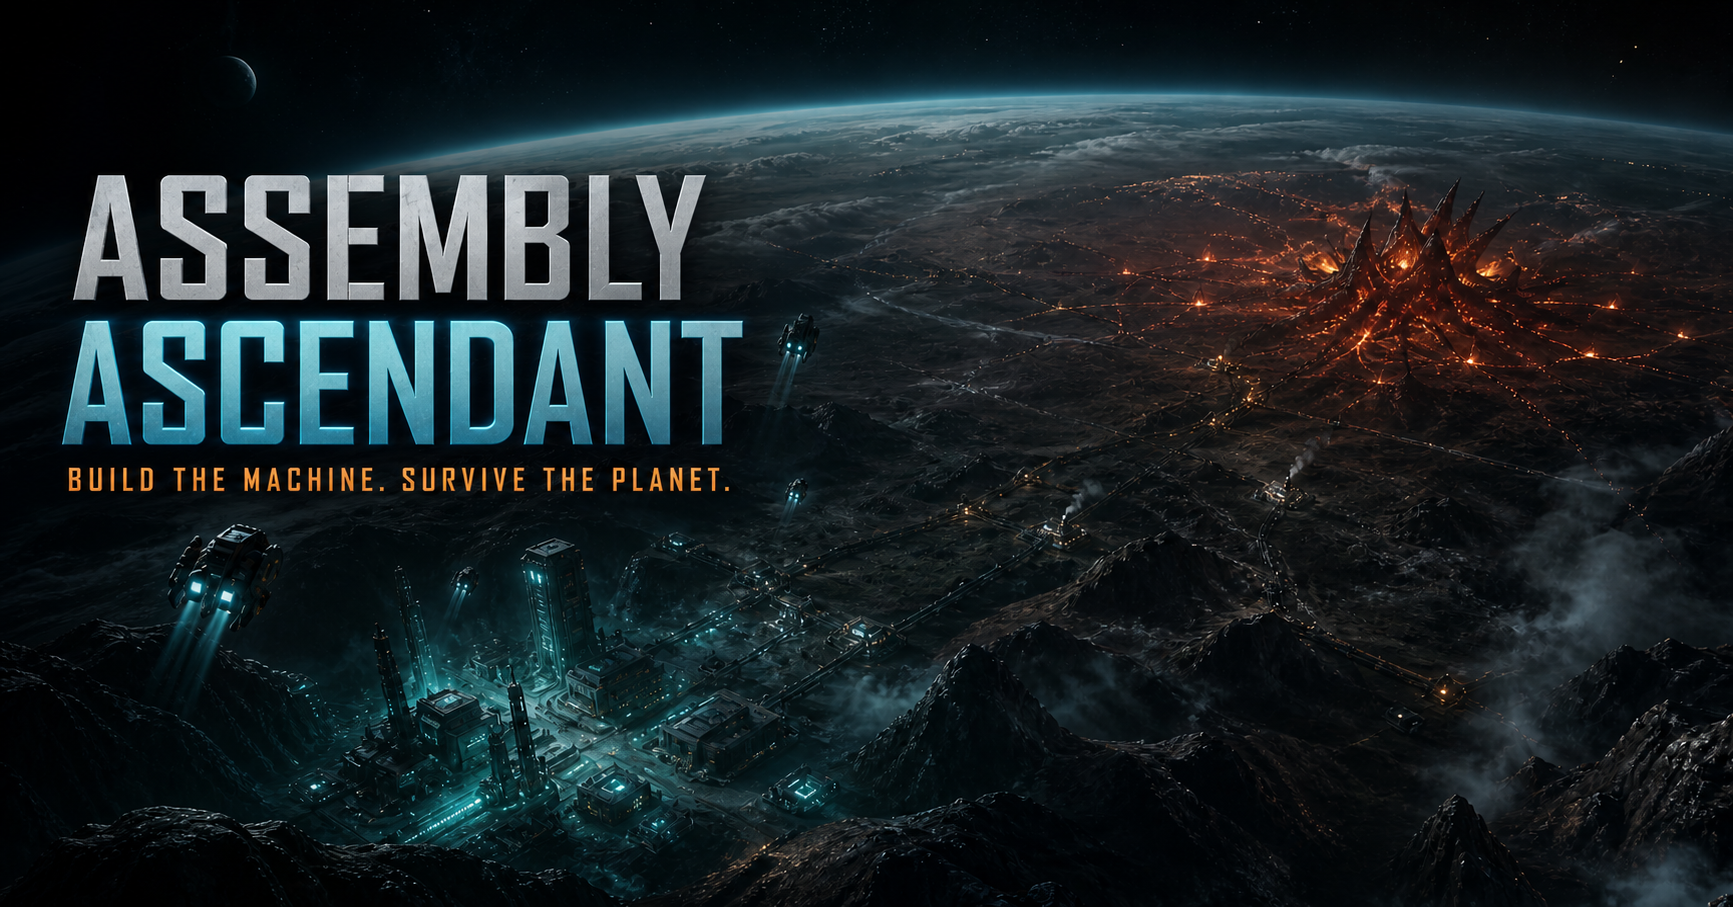
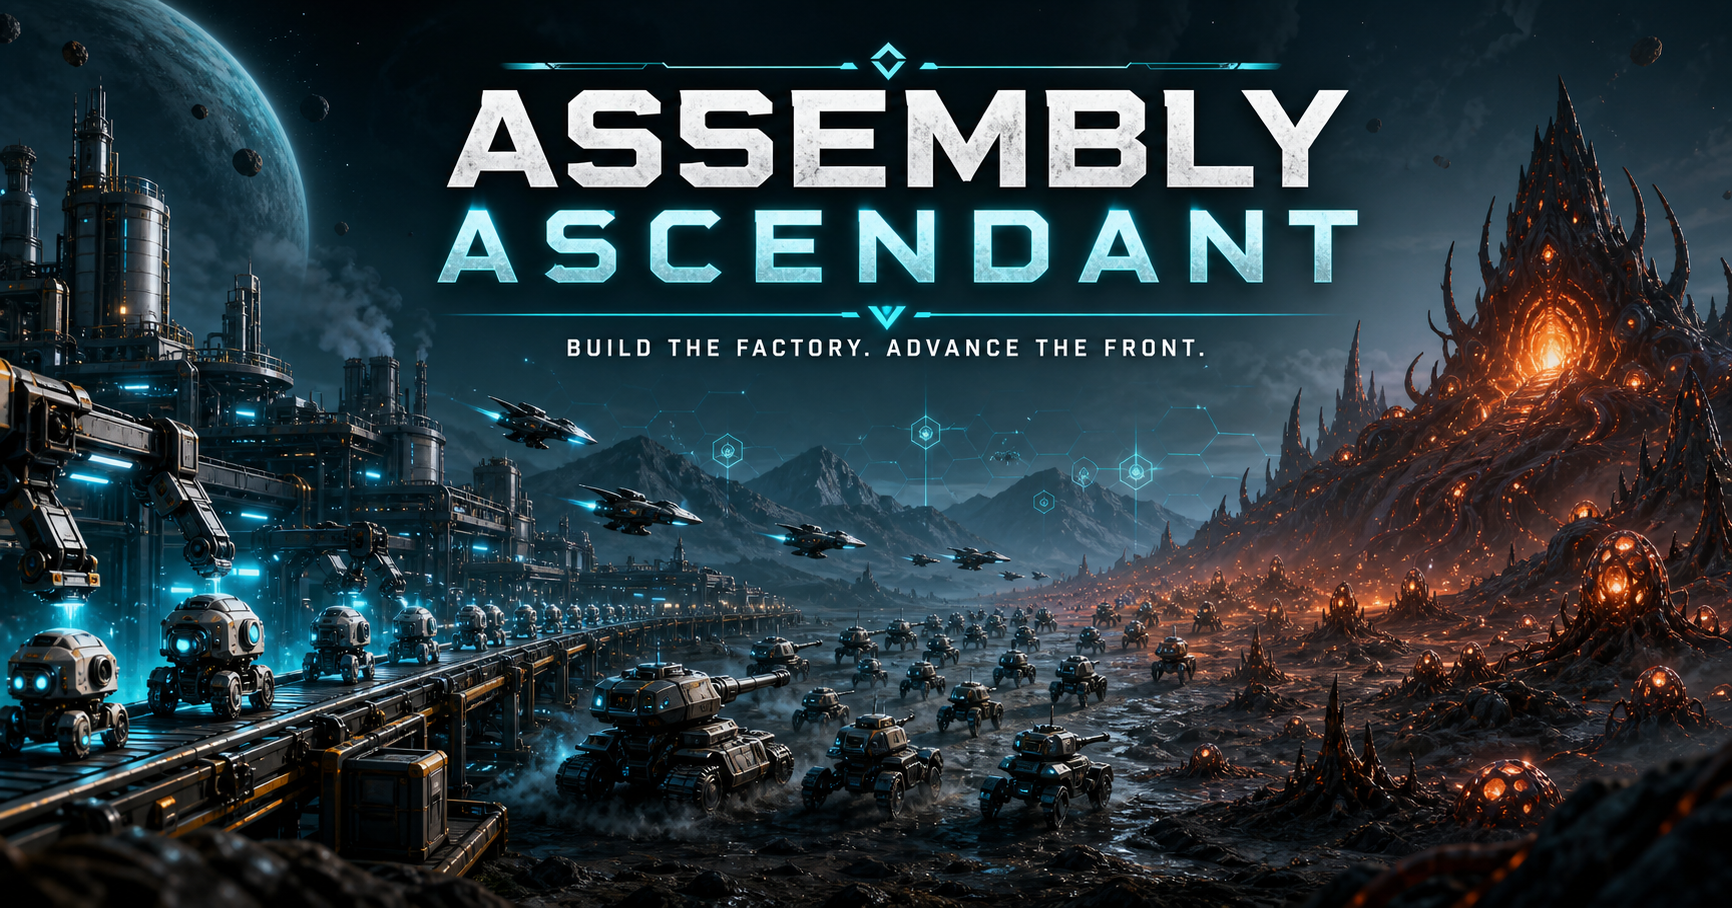
chore: prepare v0.2 release metadata

diff --git a/app/layout.tsx b/app/layout.tsx
@@ -4,16 +4,16 @@ import "./globals.css";
 export const metadata: Metadata = {
   metadataBase: new URL("https://assembly-ascendant.netlify.app"),
   title: "Assembly Ascendant",
-  description: "An incremental factory and planetary-defense browser game.",
+  description: "An idle factory game where automated armies conquer alien territory while you are away.",
   openGraph: {
     title: "Assembly Ascendant",
-    description: "Build the machine. Survive the planet.",
+    description: "Build the factory. Advance the front. Return to a stronger war machine.",
     images: [{ url: "/og.png", width: 1732, height: 907, alt: "Assembly Ascendant orbital colony and alien nest" }],
   },
   twitter: {
     card: "summary_large_image",
     title: "Assembly Ascendant",
-    description: "Build the machine. Survive the planet.",
+    description: "Build the factory. Advance the front. Return to a stronger war machine.",
     images: ["/og.png"],
   },
   icons: {

diff --git a/README.md b/README.md
@@ -2,20 +2,19 @@
 
 An incremental factory game with automated production, research, and a 2.5D planetary-defense battlefield.
 
-**Release:** v0.1  
+**Release:** v0.2
 **Play:** https://assembly-ascendant.netlify.app
 
 ## Features
 
-- Manual mining that grows into automated iron, copper, component, core, and research lines
-- Live production and consumption rates with real resource bottlenecks
-- Factory equipment visualized as expanding production lines
-- Marine, siege tank, and strike-fighter deployment
-- Automated alien waves with crawlers, acid spitters, and armored brutes
-- 2.5D depth, projectile, recoil, hover, and attack effects
-- Base damage can disable real factory equipment
-- Permanent victory and game-over states with a new-expedition loop
-- Browser-local save data
+- A streamlined iron, steel, copper, circuit, and core production network
+- Automated frontline progression across escalating nests and region bosses
+- Marine, siege-tank, and strike-fighter deployment with optional auto-reinforcement
+- Safe retreats instead of punitive game-over resets
+- Up to 24 hours of offline factory and expedition progress
+- Voluntary orbital redeployment with permanent Industry, Military, and Expedition technology
+- Progressive unlocks that reveal new systems as territory is secured
+- Browser-local saves with legacy v0.1 migration
 
 ## Run locally
 
